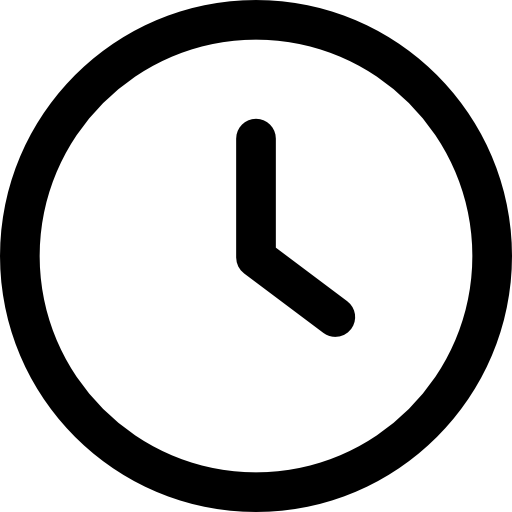
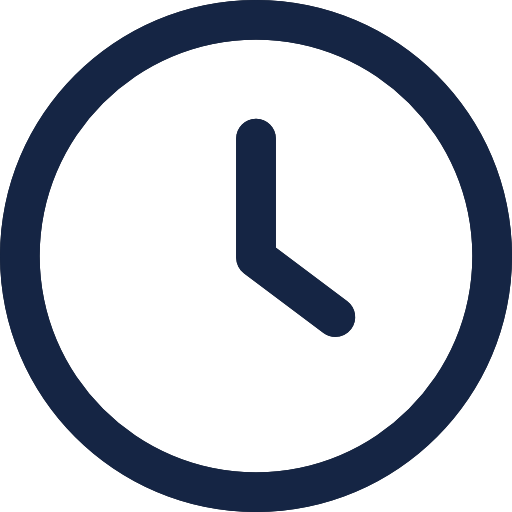
Enhance calendar logic, admin styling, and remove unused assets

Changed region(s): [[0.0, 0.0, 1.0, 1.0], [0.4375, 0.2188, 0.7188, 0.6562]]

diff --git a/korty-tenisowe/src/Calendar.jsx b/korty-tenisowe/src/Calendar.jsx
@@ -375,7 +375,10 @@ export default function Calendar() {
               type="date"
               value={selectedDate}
               min={todayStr}
-              onChange={(e) => setSelectedDate(e.target.value)}
+              onChange={(e) => {
+                setReservations([]);
+                setSelectedDate(e.target.value);
+              }}
               className="calendar-date-input"
               id="date-input"
             />

diff --git a/korty-tenisowe/src/Admin.css b/korty-tenisowe/src/Admin.css
@@ -597,6 +597,7 @@
   top: 105%;
   left: 6.5%;
 }
+
 .user-edit-select {
   height: 30px;
   width: 87%;
@@ -605,6 +606,7 @@
   border: 1px solid #ccc;
   border-radius: 6px;
   background-color: #f8f9fa;
+  color: var(--color-secondary);
 }
 .user-edit-select:focus {
   outline: none;
@@ -654,6 +656,7 @@
   border: 1px solid #ccc;
   border-radius: 6px;
   background-color: white;
+  color: var(--color-secondary);
   cursor: pointer;
 }
 

diff --git a/korty-tenisowe/src/Profile.css b/korty-tenisowe/src/Profile.css
@@ -152,6 +152,7 @@
   transition:
     background-color 0.2s,
     transform 0.1s;
+  font-size: 0.85rem;
 }
 
 .btn-cancel:hover {
